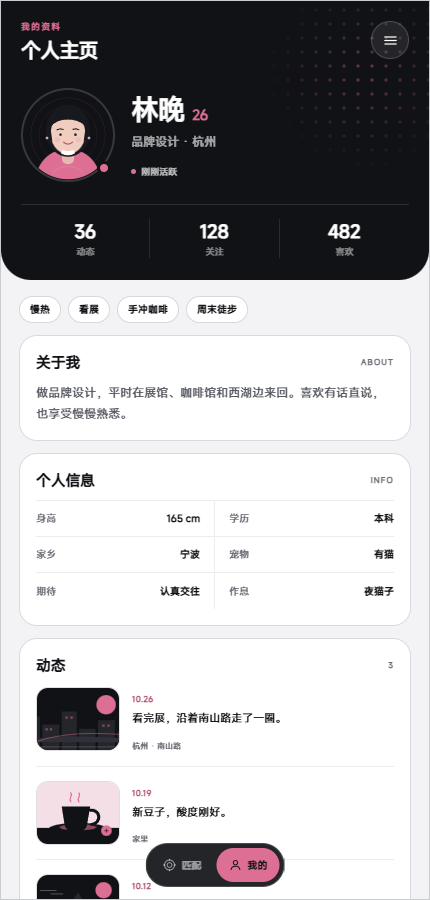
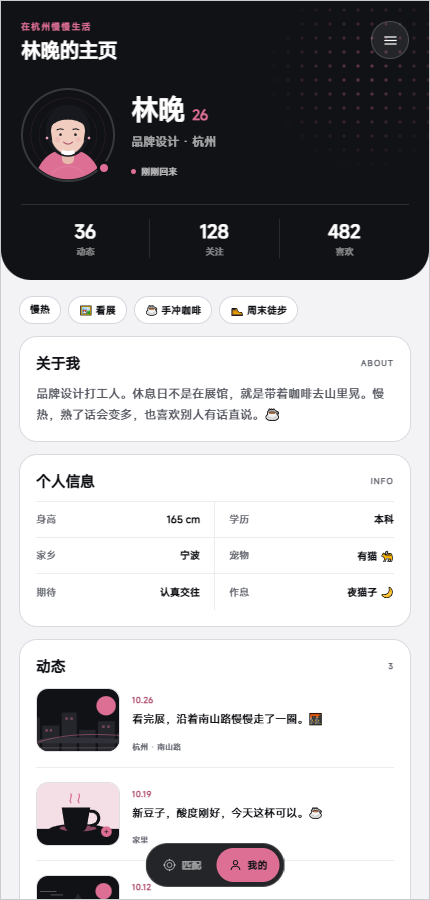
copy: make profile page sound human

diff --git a/public/index.html b/public/index.html
@@ -173,8 +173,8 @@
           <div class="profile-hero-dots" aria-hidden="true"></div>
           <div class="profile-bar">
             <div>
-              <p class="profile-kicker">我的资料</p>
-              <h2>个人主页</h2>
+              <p class="profile-kicker">在杭州慢慢生活</p>
+              <h2>林晚的主页</h2>
             </div>
             <button class="profile-settings" id="profileSettings" type="button" aria-label="打开设置">
               <svg viewBox="0 0 24 24" aria-hidden="true"><path d="M4 7h16M4 12h16M4 17h16"/></svg>
@@ -189,7 +189,7 @@
             <div class="profile-main">
               <div class="profile-name"><h3>林晚</h3><span>26</span></div>
               <p>品牌设计 · 杭州</p>
-              <div class="profile-state"><i></i>刚刚活跃</div>
+              <div class="profile-state"><i></i>刚刚回来</div>
             </div>
           </div>
 
@@ -203,14 +203,14 @@
         <div class="profile-content">
           <div class="profile-tags" aria-label="兴趣标签">
             <span>慢热</span>
-            <span>看展</span>
-            <span>手冲咖啡</span>
-            <span>周末徒步</span>
+            <span>&#128444;&#65039; 看展</span>
+            <span>&#9749; 手冲咖啡</span>
+            <span>&#129406; 周末徒步</span>
           </div>
 
           <section class="profile-card profile-about">
             <div class="profile-card-head"><h3>关于我</h3><span>ABOUT</span></div>
-            <p>做品牌设计，平时在展馆、咖啡馆和西湖边来回。喜欢有话直说，也享受慢慢熟悉。</p>
+            <p>品牌设计打工人。休息日不是在展馆，就是带着咖啡去山里晃。慢热，熟了话会变多，也喜欢别人有话直说。&#9749;</p>
           </section>
 
           <section class="profile-card">
@@ -219,9 +219,9 @@
               <div><dt>身高</dt><dd>165 cm</dd></div>
               <div><dt>学历</dt><dd>本科</dd></div>
               <div><dt>家乡</dt><dd>宁波</dd></div>
-              <div><dt>宠物</dt><dd>有猫</dd></div>
+              <div><dt>宠物</dt><dd>有猫 &#128008;</dd></div>
               <div><dt>期待</dt><dd>认真交往</dd></div>
-              <div><dt>作息</dt><dd>夜猫子</dd></div>
+              <div><dt>作息</dt><dd>夜猫子 &#127769;</dd></div>
             </dl>
           </section>
 
@@ -232,7 +232,7 @@
                 <img src="/moment-city.svg" alt="南山路傍晚" loading="lazy">
                 <div class="moment-copy">
                   <time>10.26</time>
-                  <p>看完展，沿着南山路走了一圈。</p>
+                  <p>看完展，沿着南山路慢慢走了一圈。&#127750;</p>
                   <span>杭州 · 南山路</span>
                 </div>
               </article>
@@ -240,7 +240,7 @@
                 <img src="/moment-coffee.svg" alt="手冲咖啡" loading="lazy">
                 <div class="moment-copy">
                   <time>10.19</time>
-                  <p>新豆子，酸度刚好。</p>
+                  <p>新豆子，酸度刚好，今天这杯可以。&#9749;</p>
                   <span>家里</span>
                 </div>
               </article>
@@ -248,7 +248,7 @@
                 <img src="/moment-trail.svg" alt="太子尖徒步" loading="lazy">
                 <div class="moment-copy">
                   <time>10.12</time>
-                  <p>山顶风很大，云散得很快。</p>
+                  <p>山顶风很大，云散得比人快。&#9968;&#65039;</p>
                   <span>临安 · 太子尖</span>
                 </div>
               </article>
